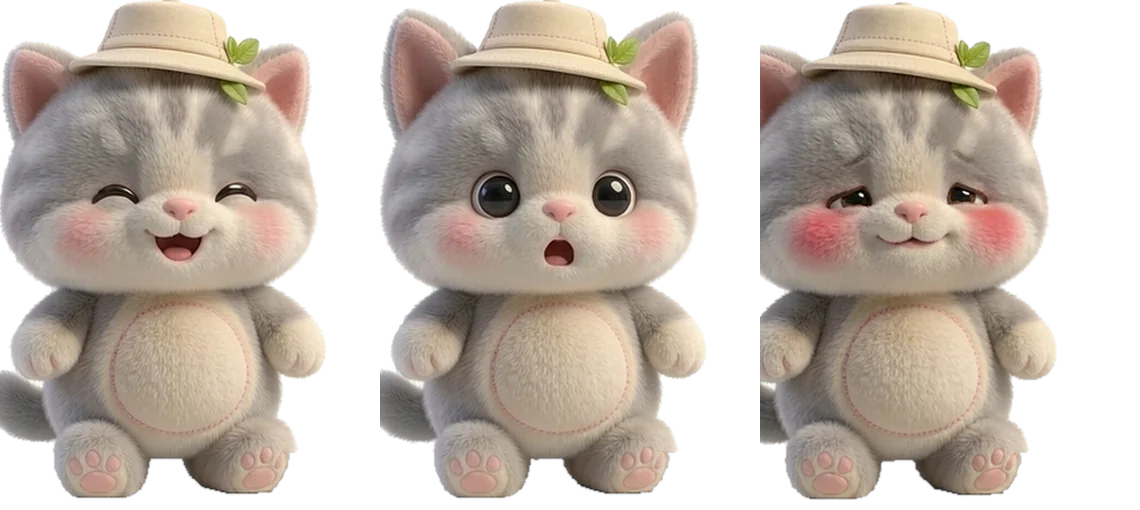
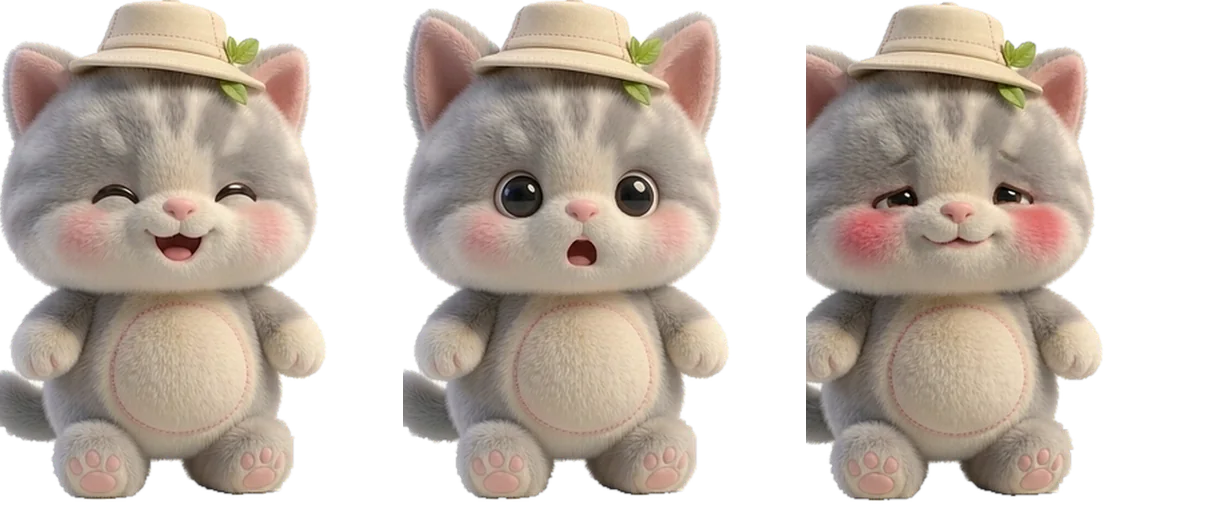
抠图改为平滑度判别剔除地面阴影；画布加宽到 484 免得招手帧的爪子被切；整体重出图

diff --git a/src/styles.css b/src/styles.css
@@ -263,7 +263,8 @@ p.gc-dialog-hint{font-size:11px;line-height:1.7;color:#8b7c6d;margin:0}
 /* ---- 2D 小猫（IP 渲染图分层 + 阴影伪 3D） ---- */
 /* 头、身、投影是三层，各自能被 JS 独立驱动：
    身体转动时头会多探出一点（视差），投影随之收窄变形，靠这三者的差速“骗”出体积。 */
-.cat-companion.is-2d{width:140px;height:188px;right:-18px;bottom:-8px}
+/* 画布 484×612 比猫本身宽 14px：给招手那一帧举起、伸到最右的爪子留余量，否则会被切平 */
+.cat-companion.is-2d{width:148px;height:188px;right:-18px;bottom:-8px}
 .pet-2d{position:relative;width:100%;height:100%;cursor:grab;outline:none;-webkit-tap-highlight-color:transparent}
 .pet-2d:active{cursor:grabbing}
 .pet-2d:focus-visible{outline:2px solid var(--focus);outline-offset:6px;border-radius:14px}
@@ -371,7 +372,7 @@ p.gc-dialog-hint{font-size:11px;line-height:1.7;color:#8b7c6d;margin:0}
   .pet-2d.is-purring .pet-2d-stage-wrap{animation:none}
 }
 @media(max-width:767px){
-  .cat-companion.is-2d{width:102px;height:137px;right:2px;bottom:calc(10px + env(safe-area-inset-bottom))}
+  .cat-companion.is-2d{width:108px;height:137px;right:2px;bottom:calc(10px + env(safe-area-inset-bottom))}
   .pet-2d-cast{height:11px}
   .pet-2d-contact{height:6px}
 }
